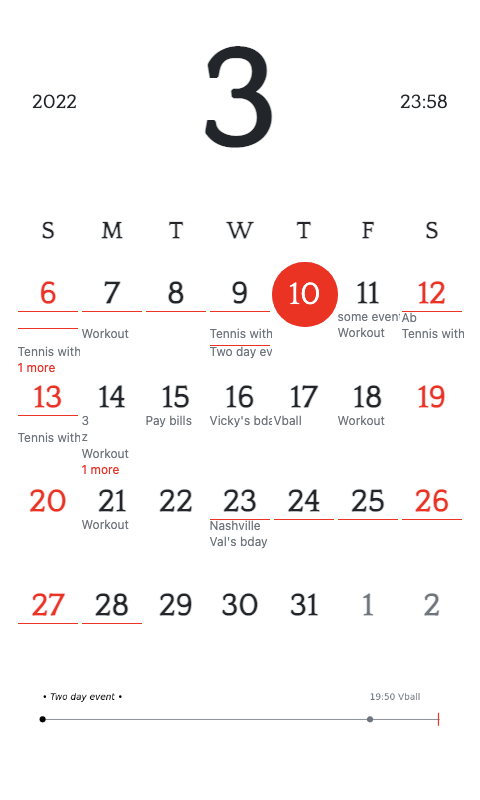
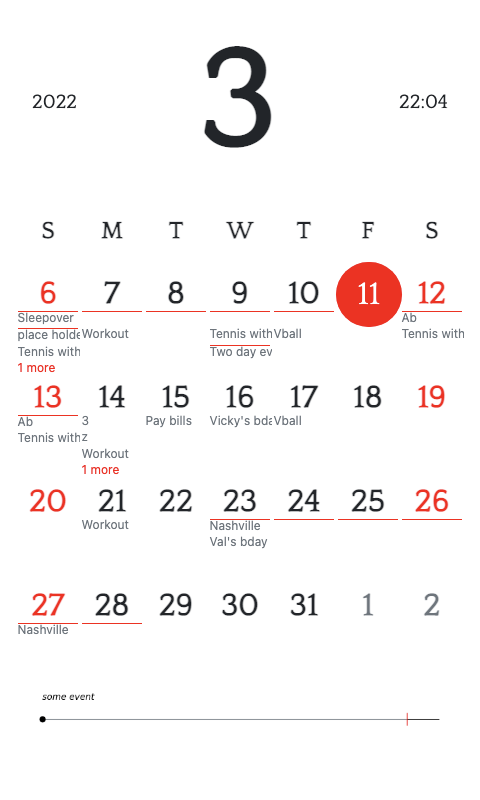
fix labels for multiday events spanning across new weeks

diff --git a/render/calendar.html b/render/calendar.html
@@ -12,7 +12,7 @@
              style="display:flex;justify-content:space-between;">
             <div class="time-info">2022</div>
             <h3 class="month font-weight-bold mb-0 text-uppercase">3</h3>
-            <div class="time-info">23:58</div>
+            <div class="time-info">22:04</div>
         </div>
         <!-- Days of week -->
         <ol class="day-names list-unstyled text-center"><li class="font-weight-bold text-uppercase">S</li>
@@ -25,8 +25,8 @@
 </ol>
         <!-- Calendar and events -->
         <ol class="days list-unstyled"><li><div class="date" style="color:red;">6</div>
-<div class="event text-hidden"><p class="multiday">Sleepover</p></div>
-<div class="event text-hidden"><p class="multiday">place holder</p></div>
+<div class="event"><p class="multiday">Sleepover</p></div>
+<div class="event"><p class="multiday">place holder</p></div>
 <div class="event"> Tennis with Chloe</div>
 <div class="event" style="color:red;">1 more</li>
 <li><div class="date">7</div>
@@ -41,18 +41,18 @@
 <div class="event">Tennis with flake</div>
 <div class="event"><p class="multiday">Two day event</p></div>
 </li>
-<li><div class="datecircle">10</div>
+<li><div class="date">10</div>
+<div class="event text-hidden"><p class="multiday">Two day event</p></div>
+<div class="event"> Vball</div>
 </li>
-<li><div class="date">11</div>
-<div class="event">some event</div>
-<div class="event">Workout</div>
+<li><div class="datecircle">11</div>
 </li>
 <li><div class="date" style="color:red;">12</div>
 <div class="event"><p class="multiday">Ab</p></div>
 <div class="event"> Tennis with Harrison</div>
 </li>
 <li><div class="date" style="color:red;">13</div>
-<div class="event text-hidden"><p class="multiday">Ab</p></div>
+<div class="event"><p class="multiday">Ab</p></div>
 <div class="event"> Tennis with Isaac</div>
 </li>
 <li><div class="date">14</div>
@@ -70,7 +70,6 @@
 <div class="event">Vball</div>
 </li>
 <li><div class="date">18</div>
-<div class="event">Workout</div>
 </li>
 <li><div class="date" style="color:red;">19</div>
 </li>
@@ -95,7 +94,7 @@
 <div class="event text-hidden"><p class="multiday">Nashville</p></div>
 </li>
 <li><div class="date" style="color:red;">27</div>
-<div class="event text-hidden"><p class="multiday">Nashville</p></div>
+<div class="event"><p class="multiday">Nashville</p></div>
 </li>
 <li><div class="date">28</div>
 <div class="event text-hidden"><p class="multiday">Nashville</p></div>

diff --git a/render/render.py b/render/render.py
@@ -90,6 +90,12 @@ class RenderHelper:
         delta = eventDate - startDate
         return delta.days
 
+    def relabel_event_on_new_week(self, calendar_list: list) -> None:
+        for i in range(0, len(calendar_list), 7):
+            for event in calendar_list[i]:
+                if event["isMultiday"]:
+                    event["hide"] = False
+
     def get_short_time(self, datetimeObj, is24hour=False):
         datetime_str = ''
         if is24hour:
@@ -157,6 +163,7 @@ class RenderHelper:
 
         # Populate the date and events
         cal_events_text = ''
+        self.relabel_event_on_new_week(calList)
         for i in range(len(calList)):
             currDate = calDict['calStartDate'] + timedelta(days=i)
             dayOfMonth = currDate.day
@@ -180,7 +187,7 @@ class RenderHelper:
                 cal_events_text += '<div class="event'
                 if event['isUpdated']:
                     cal_events_text += ' text-danger'
-                if "hide" in event:
+                if event.get("hide"):
                     cal_events_text += ' text-hidden'
                 elif currDate.month != calDict['today'].month:
                     cal_events_text += ' text-muted'

diff --git a/README.md b/README.md
@@ -15,6 +15,7 @@
 - [x] overflow in red, event in gray
 - [x] long line for multi day events
 - [x] multiday line in red
+- [x] show event label again on new week start for continuity
 - [ ] increase width between columns
 - [ ] noto serif
 - [ ] roboto slab
